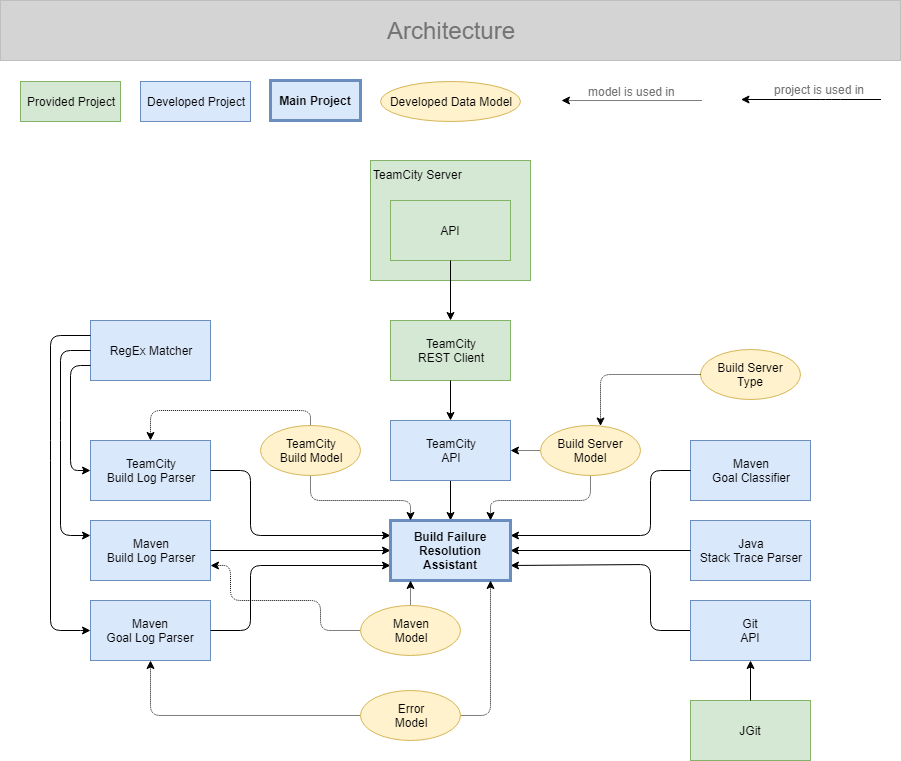
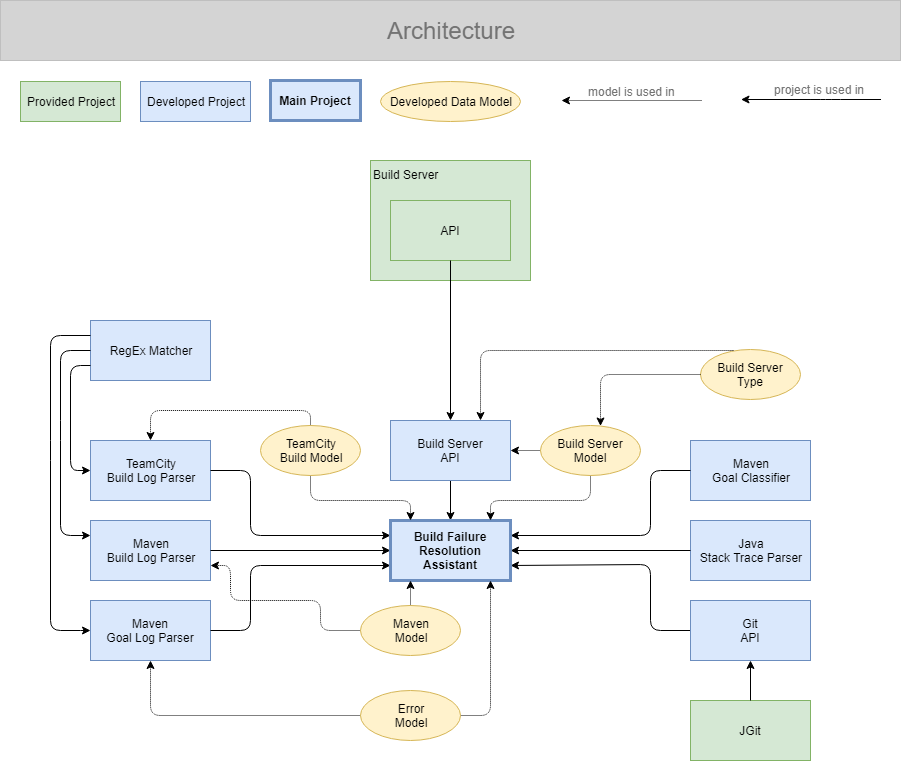
Move teamcity-api to new module build-server-api

Changed region(s): [[0.4351, 0.3929, 0.5905, 0.5138], [0.404, 0.2116, 0.4972, 0.2418], [0.4661, 0.5742, 0.5283, 0.6045]]

diff --git a/build-failure-resolution-assistant/src/main/java/ch/scheitlin/alex/build/Assistant.java b/build-failure-resolution-assistant/src/main/java/ch/scheitlin/alex/build/Assistant.java
@@ -2,6 +2,7 @@ package ch.scheitlin.alex.build;
 
 import ch.scheitlin.alex.build.model.Build;
 import ch.scheitlin.alex.build.model.BuildServer;
+import ch.scheitlin.alex.build.model.BuildServerType;
 import ch.scheitlin.alex.build.model.Error;
 import ch.scheitlin.alex.git.api.GitApi;
 import ch.scheitlin.alex.maven.Classifier;
@@ -12,19 +13,17 @@ import ch.scheitlin.alex.teamcity.BuildLogParser;
 import ch.scheitlin.alex.teamcity.api.TeamcityApi;
 import ch.scheitlin.alex.teamcity.TeamCityBuild;
 import javafx.util.Pair;
-import org.jetbrains.teamcity.rest.Project;
 
 import java.util.List;
 
 public class Assistant extends AssistantWithStages {
-    private List<Project> projects;
-
+    private BuildServerType buildServerType;
 
     // -----------------------------------------------------
     // variables to set in stages
     // -----------------------------------------------------
     // connect
-    private TeamcityApi teamCityApi;
+    private BuildServerApi buildServerApi;
 
     // download
     private Build build;
@@ -43,14 +42,22 @@ public class Assistant extends AssistantWithStages {
     private String previousBranch;
     private String stashedChanges;
 
+    public Assistant(BuildServerType buildServerType) {
+        this.buildServerType = buildServerType;
+    }
+
+    // -------------------
+    // Stages
+
     public boolean connectToBuildServer(String host, String username, String password) {
         // return false if connection test fails
         if (!this.testTeamCityConnection(host, username, password)) {
             return false;
         }
 
-        // store team city instance
-        this.teamCityApi = new TeamcityApi(host, username, password);
+        // login to api
+        this.buildServerApi = new BuildServerApi(this.buildServerType);
+        this.buildServerApi.login(host, username, password);
 
         return true;
     }
@@ -59,14 +66,14 @@ public class Assistant extends AssistantWithStages {
         this.build = build;
 
         try {
-            this.rawTeamCityBuildLog = this.teamCityApi.getBuildLog(this.build.getId());
+            this.rawTeamCityBuildLog = this.buildServerApi.downloadBuildLog(this.build.getId());
         } catch (Exception ex) {
-            //throw new Exception("TeamCity build log could not be downloaded.");
+            //throw new Exception("Build log could not be downloaded.");
             return false;
         }
 
         if (this.rawTeamCityBuildLog == null || this.rawTeamCityBuildLog.equals("")) {
-            //throw new Exception("TeamCity build log could not be processed.");
+            //throw new Exception("Build log could not be processed.");
             return false;
         }
 
@@ -253,7 +260,7 @@ public class Assistant extends AssistantWithStages {
 
     public boolean disconnectFromBuildServer() {
         // clean variables
-        this.teamCityApi = null;
+        this.buildServerApi = null;
 
         return true;
     }
@@ -284,11 +291,11 @@ public class Assistant extends AssistantWithStages {
     // -------------------
 
     public BuildServer getBuildServerInformation() {
-        return this.teamCityApi.getBuildServerInformation();
+        return this.buildServerApi.toBuildServerModel();
     }
 
     public boolean testTeamCityConnection(String host, String username, String password) {
-        return TeamcityApi.testTeamCityConnection(host, username, password);
+        return new TeamcityApi().testConnection(host, username, password);
     }
 
     public boolean isInNoStage() {

diff --git a/build-server-api/src/main/java/ch/scheitlin/alex/teamcity/api/TeamcityApi.java b/build-server-api/src/main/java/ch/scheitlin/alex/teamcity/api/TeamcityApi.java
@@ -1,25 +1,23 @@
 package ch.scheitlin.alex.teamcity.api;
 
+import ch.scheitlin.alex.build.Api;
 import ch.scheitlin.alex.build.model.BuildServer;
+import ch.scheitlin.alex.build.model.BuildServerType;
 import org.jetbrains.teamcity.rest.BuildId;
 import org.jetbrains.teamcity.rest.TeamCityInstance;
 import org.jetbrains.teamcity.rest.TeamCityInstanceFactory;
 
 import java.io.File;
-import java.util.Scanner;
 
-public class TeamcityApi {
+public class TeamcityApi extends Api {
     private TeamCityInstance teamCity;
 
-    public TeamcityApi(String host, String username, String password) {
-        this.teamCity = TeamCityInstanceFactory.httpAuth(host, username, password);
+    public TeamcityApi() {
+        // set build server type
+        super(BuildServerType.TEAM_CITY);
     }
 
-    public BuildServer getBuildServerInformation() {
-        return Specific.getBuildServerModel(this.teamCity);
-    }
-
-    public static boolean testTeamCityConnection(String host, String username, String password) {
+    public boolean testConnection(String host, String username, String password) {
         if (host == null || username == null || password == null) {
             return false;
         }
@@ -35,7 +33,15 @@ public class TeamcityApi {
         }
     }
 
-    public String getBuildLog(String buildId) throws Exception {
+    public void login(String host, String username, String password) {
+        this.teamCity = TeamCityInstanceFactory.httpAuth(host, username, password);
+    }
+
+    public BuildServer toBuildServerModel() {
+        return Specific.getBuildServerModel(this.teamCity);
+    }
+
+    public String downloadBuildLog(String buildId) throws Exception {
         // create temp file
         File file = File.createTempFile("log", ".txt");
 
@@ -54,14 +60,7 @@ public class TeamcityApi {
         this.teamCity.build(new BuildId(buildId)).downloadBuildLog(file);
     }
 
-    private String readFile(File file) throws Exception {
-        StringBuilder result = new StringBuilder();
-        Scanner scanner = new Scanner(file);
-        while (scanner.hasNextLine()) {
-            result.append(scanner.nextLine()).append("\n");
-        }
-        scanner.close();
-
-        return result.toString();
+    public void logout() {
+        this.teamCity = null;
     }
 }

diff --git a/build-server-api/src/main/java/ch/scheitlin/alex/build/BuildServerApi.java b/build-server-api/src/main/java/ch/scheitlin/alex/build/BuildServerApi.java
@@ -1,0 +1,53 @@
+package ch.scheitlin.alex.build;
+
+import ch.scheitlin.alex.build.model.BuildServer;
+import ch.scheitlin.alex.build.model.BuildServerType;
+import ch.scheitlin.alex.teamcity.api.TeamcityApi;
+
+import java.io.File;
+import java.util.ArrayList;
+import java.util.List;
+
+public class BuildServerApi {
+    private Api api;
+    private List<Api> apiList;
+
+    public BuildServerApi(BuildServerType type) {
+        this.apiList = new ArrayList<Api>();
+
+        // add a new instance of every api
+        this.apiList.add(new TeamcityApi());
+
+        // get the corresponding api
+        for (Api api : apiList) {
+            if (api.isApiFor(type)) {
+                this.api = api;
+                break;
+            }
+        }
+    }
+
+    public boolean testConnection(String host, String username, String password) {
+        return this.api.testConnection(host, username, password);
+    }
+    
+    public void login(String host, String username, String password) {
+        this.api.login(host, username, password);
+    }
+    
+    public BuildServer toBuildServerModel() {
+        return this.api.toBuildServerModel();
+    }
+    
+    public String downloadBuildLog(String buildId) throws Exception {
+        return this.api.downloadBuildLog(buildId);
+    }
+    
+    public void saveBuildLogTo(String buildId, File file) throws Exception {
+        this.api.saveBuildLogTo(buildId, file);
+    }
+    
+    public void logout() {
+        this.api.logout();
+    }
+}

diff --git a/build-server-api/src/main/java/ch/scheitlin/alex/build/Api.java b/build-server-api/src/main/java/ch/scheitlin/alex/build/Api.java
@@ -1,0 +1,41 @@
+package ch.scheitlin.alex.build;
+
+import ch.scheitlin.alex.build.model.BuildServer;
+import ch.scheitlin.alex.build.model.BuildServerType;
+
+import java.io.File;
+import java.util.Scanner;
+
+public abstract class Api {
+    private BuildServerType buildServerType;
+
+    public Api(BuildServerType buildServerType) {
+        this.buildServerType = buildServerType;
+    }
+
+    public BuildServerType getBuildServerType() {
+        return this.getBuildServerType();
+    }
+
+    public boolean isApiFor(BuildServerType buildServerType) {
+        return buildServerType == this.buildServerType;
+    }
+
+    public abstract boolean testConnection(String host, String username, String password);
+    public abstract void login(String host, String username, String password);
+    public abstract BuildServer toBuildServerModel();
+    public abstract String downloadBuildLog(String buildId) throws Exception;
+    public abstract void saveBuildLogTo(String buildId, File file) throws Exception;
+    public abstract void logout();
+
+    protected String readFile(File file) throws Exception {
+        StringBuilder result = new StringBuilder();
+        Scanner scanner = new Scanner(file);
+        while (scanner.hasNextLine()) {
+            result.append(scanner.nextLine()).append("\n");
+        }
+        scanner.close();
+
+        return result.toString();
+    }
+}

diff --git a/build-server-api/src/main/java/ch/scheitlin/alex/teamcity/api/Specific.java b/build-server-api/src/main/java/ch/scheitlin/alex/teamcity/api/Specific.java
@@ -1,7 +1,7 @@
 package ch.scheitlin.alex.teamcity.api;
 
 import ch.scheitlin.alex.build.model.BuildServer;
-import ch.scheitlin.alex.build.model.BuildServerName;
+import ch.scheitlin.alex.build.model.BuildServerType;
 import org.jetbrains.teamcity.rest.Build;
 import org.jetbrains.teamcity.rest.BuildConfiguration;
 import org.jetbrains.teamcity.rest.Project;
@@ -21,10 +21,10 @@ class Specific {
      * @return a build server model
      */
     static BuildServer getBuildServerModel(TeamCityInstance teamCity) {
-        BuildServerName name = BuildServerName.TEAM_CITY;
+        BuildServerType type = BuildServerType.TEAM_CITY;
         List<ch.scheitlin.alex.build.model.Project> projects = Specific.getProjects(teamCity);
 
-        return new BuildServer(name, projects);
+        return new BuildServer(type, projects);
     }
 
     /**

diff --git a/build-server-api/src/main/java/Main.java b/build-server-api/src/main/java/Main.java
@@ -1,5 +1,5 @@
+import ch.scheitlin.alex.build.BuildServerApi;
 import ch.scheitlin.alex.build.model.*;
-import ch.scheitlin.alex.teamcity.api.TeamcityApi;
 
 import java.io.File;
 import java.util.Scanner;
@@ -11,9 +11,11 @@ public class Main {
         String password = "scheitlin";
         String path = "C:\\Users\\Alex\\Desktop\\";
 
-        TeamcityApi api = new TeamcityApi(host, username, password);
+        BuildServerType type = BuildServerType.TEAM_CITY;
+        BuildServerApi api = new BuildServerApi(type);
+        api.login(host, username, password);
 
-        BuildServer information = api.getBuildServerInformation();
+        BuildServer information = api.toBuildServerModel();
 
         int counter = 0;
         for (Project project : information.getProjects()) {

diff --git a/build-failure-resolution-assistant/src/main/java/Main.java b/build-failure-resolution-assistant/src/main/java/Main.java
@@ -12,8 +12,9 @@ public class Main {
         //String projectPath = "C:\\Users\\Alex\\IdeaProjects\\demo-bank-account";
         String projectPath = "C:\\Users\\alex\\IdeaProjects\\demo-bank-account";
 
-        // login to teamcity
-        Assistant assistant = new Assistant();
+        // login to build server
+        BuildServerType type = BuildServerType.TEAM_CITY;
+        Assistant assistant = new Assistant(type);
         if (!assistant.connect(host, username, password)) {
             System.out.println("Could not connect to the TeamCity server.");
             return;
